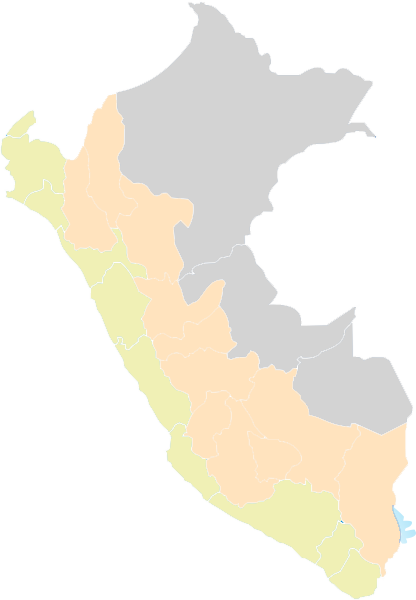
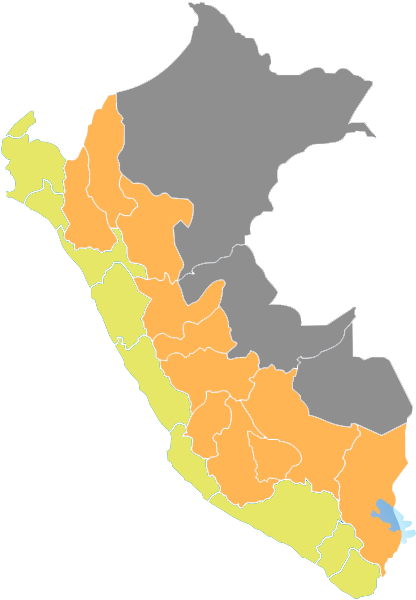
Corrección Links de busqueda. Agrandar mapa Electricidad.

diff --git a/Osinergmin-web/pages/busqueda.html b/Osinergmin-web/pages/busqueda.html
@@ -97,8 +97,7 @@
                         </div>
                         <div class="xlg-7 lg-8 md-12 sm-12">
                             <h2 class="title-subsection">
-                                <a
-                                    href="http://127.0.0.1:5500/Osinergmin-web/pages/electricidad.html?ubigeo=00#divCompleto">Tarifas
+                                <a href="electricidad.html?ubigeo=00#divCompleto">Tarifas
                                     eléctricas regionales</a>
                             </h2>
                         </div>
@@ -135,8 +134,7 @@
                         </div>
                         <div class="xlg-7 lg-8 md-12 sm-12">
                             <h2 class="title-subsection">
-                                <a
-                                    href="http://127.0.0.1:5500/Osinergmin-web/pages/electricidad.html?ubigeo=00#porcentaje-de-unidades-de-alumbrado-publico">Porcentaje
+                                <a href="electricidad.html?ubigeo=00#porcentaje-de-unidades-de-alumbrado-publico">Porcentaje
                                     de Unidades de Alumbrado Público (UAP) Deficientes
                                     detectadas en los procedimientos de supervisión</a>
                             </h2>
@@ -170,11 +168,14 @@
                     </div>
                     <div class="section shadow border-rounded-sm bg-white grid-container xlg-12 lg-12 md-6 sm-12">
                         <div class="content-bgimg xlg-5 lg-4 md-12 sm-12 rows-5"
-                            style="background-image: url('https://gisem.osinergmin.gob.pe/validar/monitoreo/images/060d5db1-1d7a-4512-a5df-f37a43bf03ec.png');">
+                            style="background-image: url('https://gisem.osinergmin.gob.pe/validar/monitoreo/images/172235f4-728f-4938-9c58-84e3ffb97dc9.png');">
                         </div>
                         <div class="xlg-7 lg-8 md-12 sm-12">
                             <h2 class="title-subsection">
-                                Precios de GLP
+                                <a
+                                    href="electricidad.html?ubigeo=00#evolucion-de-la-generacion-y-maxima-demanda-del-sein">
+                                    Evolución de la Generación y Máxima Demanda del SEIN
+                                </a>
                             </h2>
                         </div>
                         <div class="grid-container xlg-7 lg-8 md-12 sm-12" style="margin-bottom: 0;">

diff --git a/Osinergmin-web/pages/electricidad.html b/Osinergmin-web/pages/electricidad.html
@@ -16,7 +16,7 @@
 
     <style>
         .mapify-holder {
-            width: auto;
+            width: 80%;
         }
 
         .mapify-hover {
